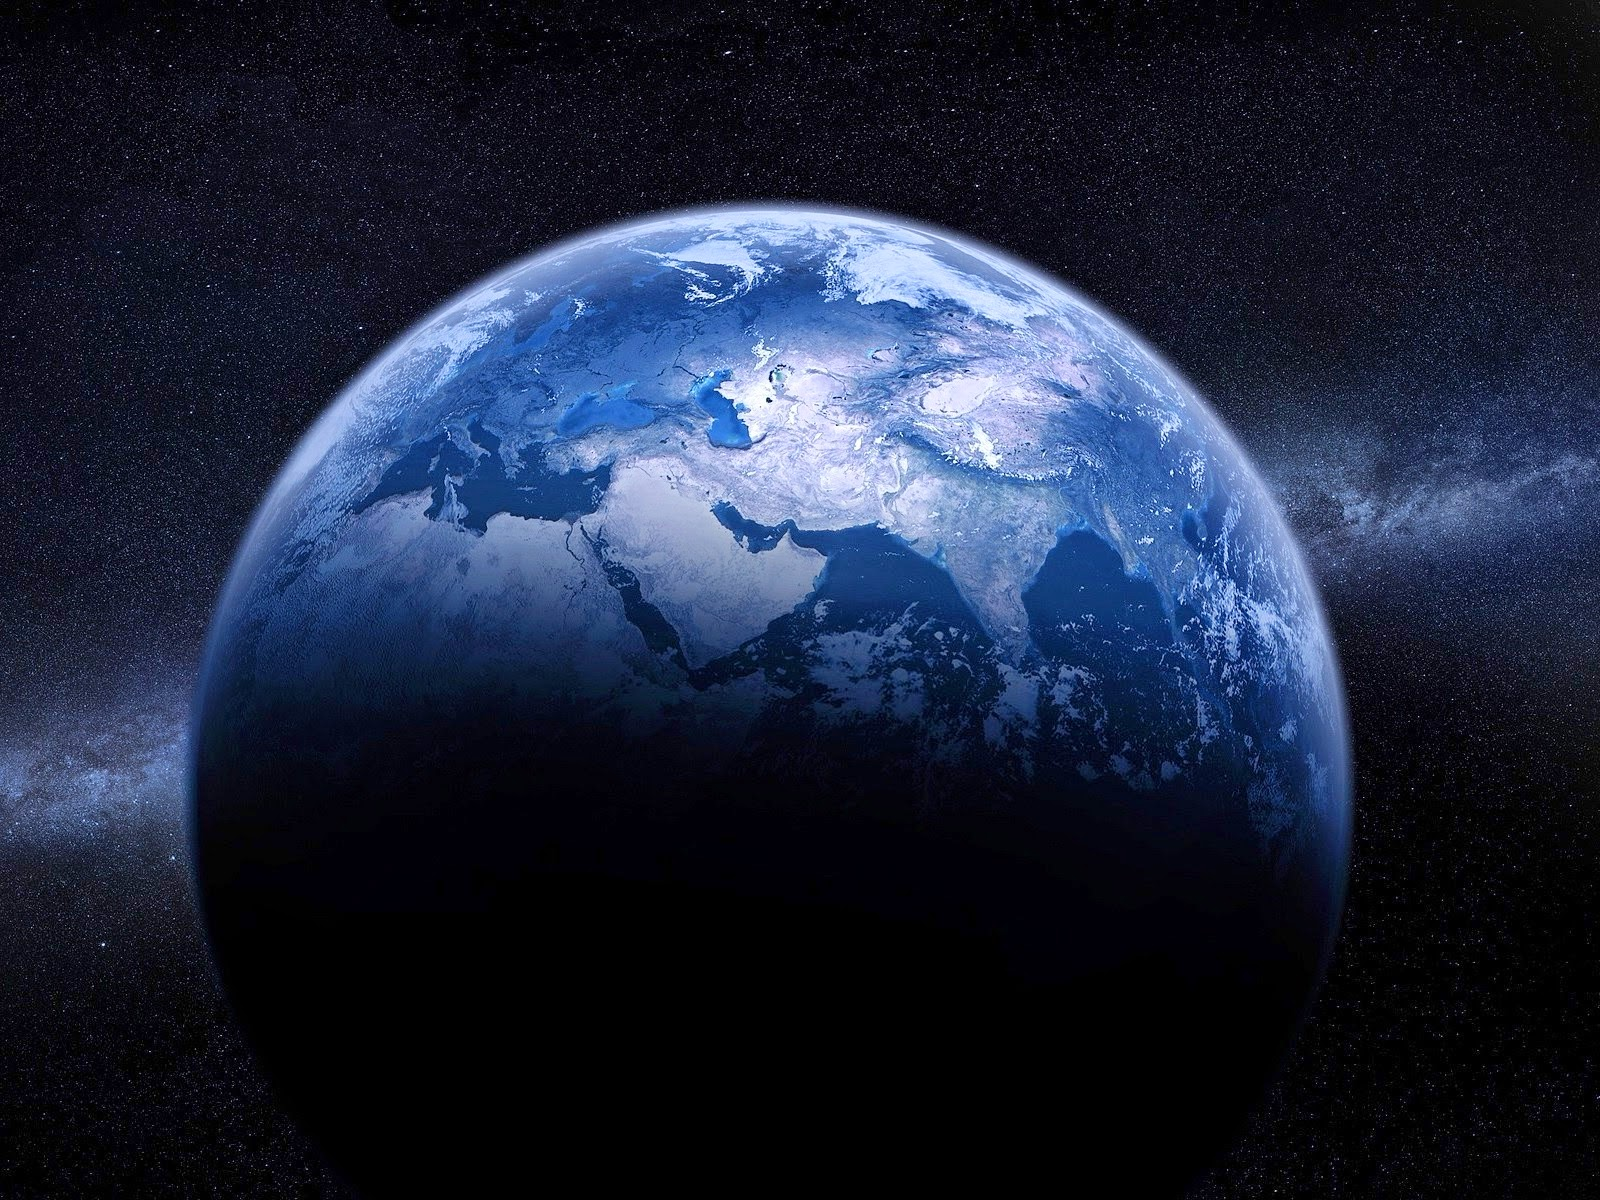
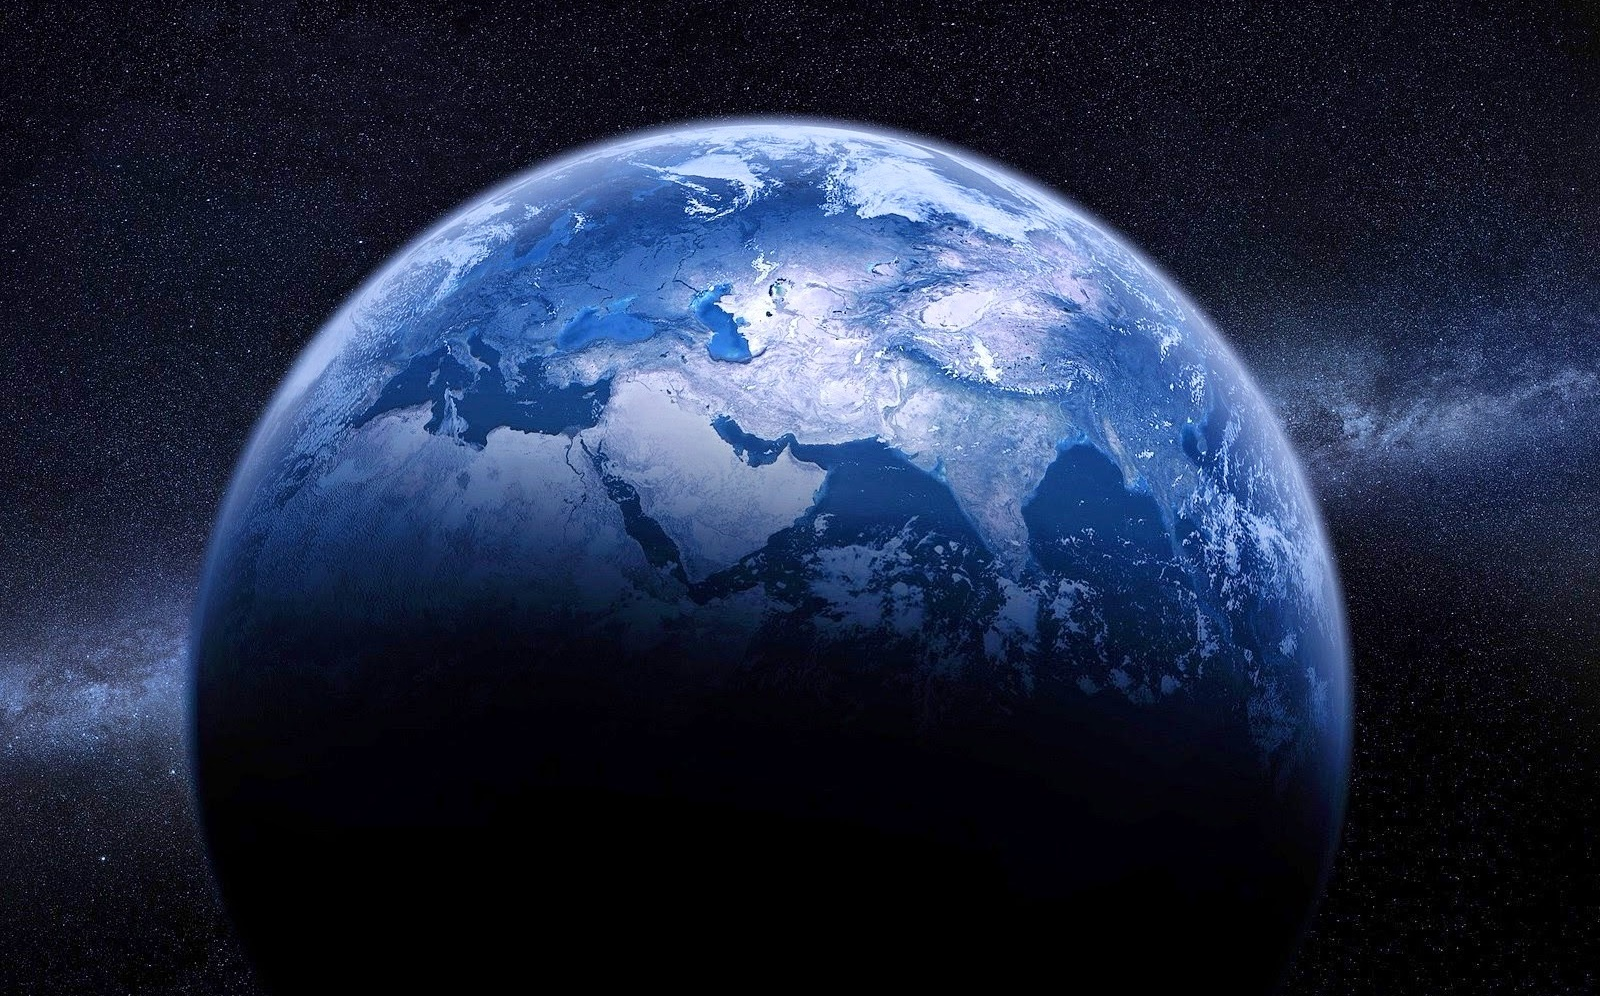
Updated main page

Changed region(s): [[0.0, 0.0, 1.0, 0.996]]

diff --git a/scripts/css/style.css b/scripts/css/style.css
@@ -141,6 +141,7 @@ body {
     margin: 0;
     text-shadow: 2px 2px 3px rgba(0, 0, 0, 0.6);
     font-size: 5em;
+    color: #fff;
 }
 .intro-divider {
     width: 400px;
@@ -149,6 +150,7 @@ body {
 }
 .intro-message > h3 {
     text-shadow: 2px 2px 3px rgba(0, 0, 0, 0.6);
+    color: antiquewhite;
 }
 @media(max-width:767px) {
     .intro-message {
@@ -318,4 +320,8 @@ blockquote {
     margin: 5px;
     background-position: top left;
     background-repeat: no-repeat;
+}
+
+.intro-header {
+    background: url(../../assets/bing-space.jpg) no-repeat center center;
 }
